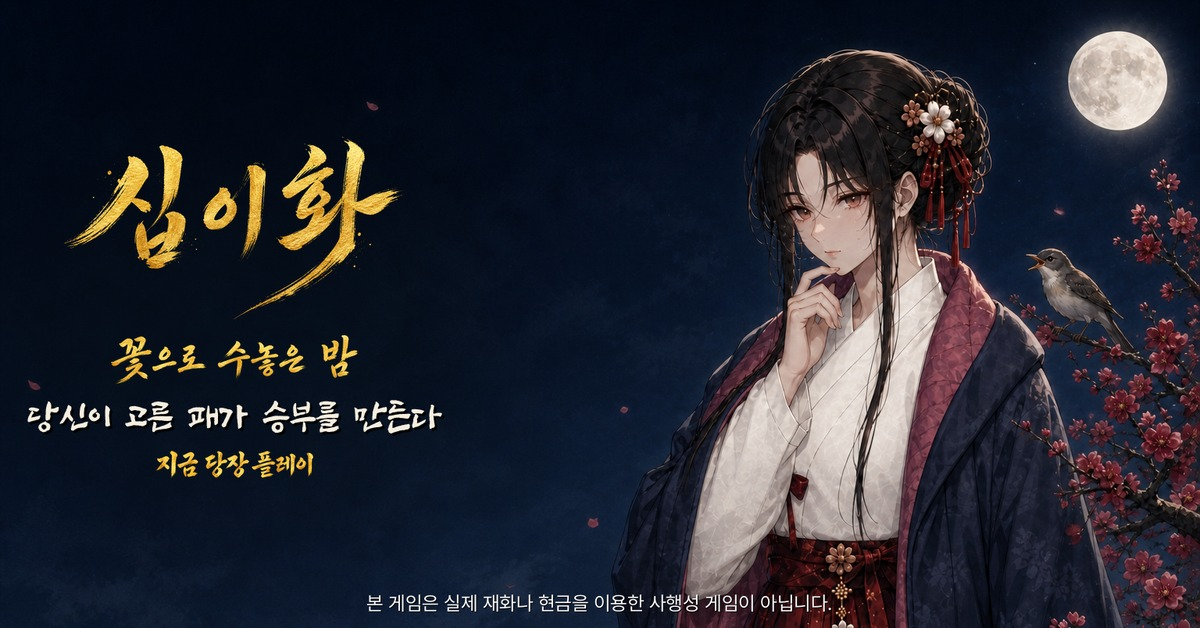
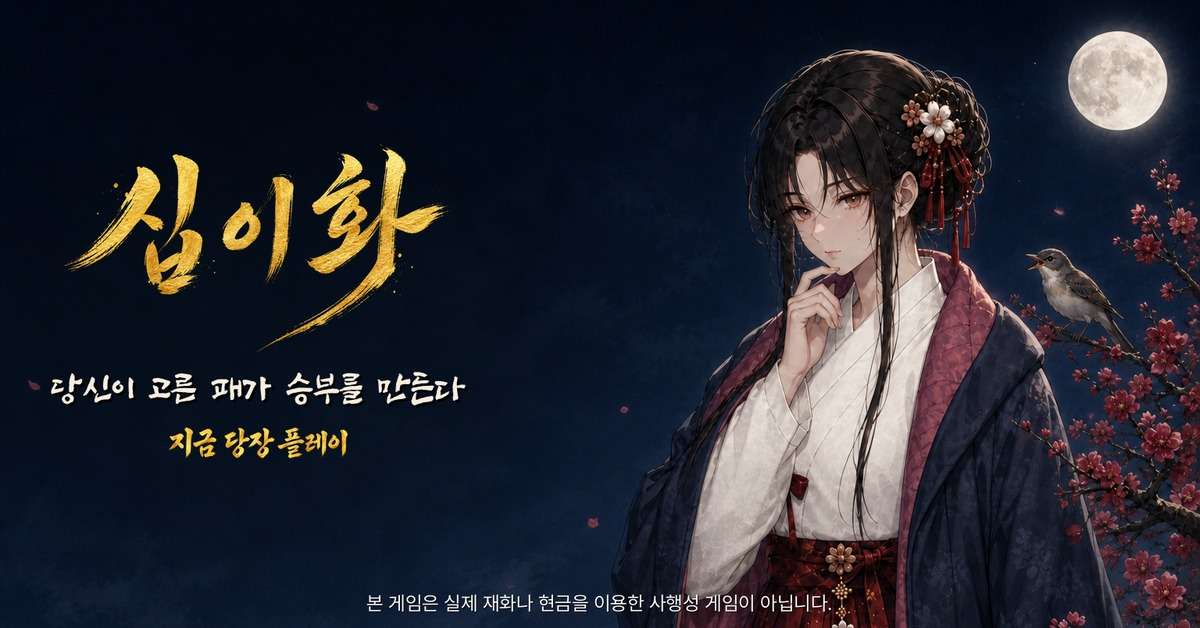
공통 태그라인을 빼고 타이포를 3단으로 되돌린다
「꽃으로 수놓은 밤」을 한 단 넣었더니 타이포 블록이 세로로 길어져 아트를
가렸다. 로고 / 월별 부제 / CTA 의 3단으로 복귀한다.

- lockup.py 에서 태그라인 레이어 제거, 단 간격을 3단 기준으로 재조정
- 블록이 짧아진 만큼 규격별 로고 폭을 키우고 시작 위치를 다시 잡았다
  (1:1 480 · 1.91:1 500 · 4:5 450)
- 태그라인 자산은 지우지 않고 gen/type/tagline/ 에 남긴다

Changed region(s): [[0.0, 0.2118, 0.4008, 0.7564], [0.185, 0.4841, 0.2158, 0.5143]]

diff --git a/design/15_google_campaign/src/lockup.py b/design/15_google_campaign/src/lockup.py
@@ -1,13 +1,13 @@
 #!/usr/bin/env python3
 """아트 플레이트 위에 「화투로」 로고 · 부제 · CTA · 사행성 고지를 조판한다.
 
-4단 구조로 쌓는다.
-  1) 로고    gen/logo/logo_og.png       금박 붓글씨 · 12장 공용
-  2) 태그라인 gen/type/tagline/type.png  「꽃으로 수놓은 밤」 붓글씨 · 12장 공용
-  3) 월별 부제 게임 폰트 SSRockRegular    광고에서 본 글씨 = 게임에서 볼 글씨
-  4) CTA     gen/type/tcta/type.png     금박 붓글씨 · 12장 공용
+3단 구조로 쌓는다.
+  1) 로고     gen/logo/logo_og.png    금박 붓글씨 · 12장 공용
+  2) 월별 부제 게임 폰트 SSRockRegular  광고에서 본 글씨 = 게임에서 볼 글씨
+  3) CTA      gen/type/tcta/type.png  금박 붓글씨 · 12장 공용
 
-태그라인을 폰트가 아니라 이미지로 쓰는 이유: 인게임 폰트에 '놓' 이 없다.
+공통 태그라인(「꽃으로 수놓은 밤」)을 한 단 넣어봤으나 블록이 세로로 길어져 뺐다.
+자산은 gen/type/tagline/ 에 남아 있다.
 
 ※ SSRock 은 게임에 나오는 글자만 담은 서브셋이다(한글 557자 / 완성형 11,172자 중).
   문구를 고치면 반드시 커버리지를 다시 확인할 것 — 없는 글자는 두부(⊠)로 찍힌다.
@@ -36,7 +36,6 @@ NOTICE_FONTS = [f"{H}/Pretendard-Regular.otf", f"{H}/Pretendard-Light.otf", f"{H
 NFONT = next((p for p in NOTICE_FONTS if os.path.exists(p)), None)
 GAME_FONT = os.path.join(G, ".work", "SSRock.ttf")   # 인게임 폰트
 
-TAG_W_RATIO = 0.72     # 태그라인 폭 = 로고 폭 × 이 값
 CTA_W_RATIO = 0.46     # CTA 폭 = 로고 폭 × 이 값
 
 def _has(ch):
@@ -85,7 +84,6 @@ _logo_path = LOGO_OVERRIDE or os.path.join(G, "logo", "logo_ink.png" if INK else
 logo = fit(piece(_logo_path), LOGO_W)
 cta  = fit(piece(os.path.join(G, "logo", "cta_verm.png") if INK else os.path.join(G, "type", "tcta", "type.png")),
            round(LOGO_W * CTA_W_RATIO))
-tag  = fit(piece(os.path.join(G, "type", "tagline", "type.png")), round(LOGO_W * TAG_W_RATIO))
 SUB_COL   = (32, 30, 28, 255) if INK else (245, 238, 224, 255)
 SHADOW    = None if INK else (0, 0, 0, 175)
 NOTICE_COL = (44, 40, 36, 175) if INK else (255, 255, 255, 115)
@@ -94,10 +92,9 @@ _m = ImageDraw.Draw(Image.new("RGB", (1, 1)))
 sbb = _m.textbbox((0, 0), SUB, font=gfont)
 sub_w, sub_h = sbb[2] - sbb[0], sbb[3] - sbb[1]
 
-gap1 = round(LOGO_W * 0.045)   # 로고 → 태그라인
-gap2 = round(LOGO_W * 0.045)   # 태그라인 → 월별 부제
-gap3 = round(LOGO_W * 0.050)   # 월별 부제 → CTA
-block_h = logo.height + gap1 + tag.height + gap2 + sub_h + gap3 + cta.height
+gap1 = round(LOGO_W * 0.050)   # 로고 → 월별 부제
+gap2 = round(LOGO_W * 0.055)   # 월별 부제 → CTA
+block_h = logo.height + gap1 + sub_h + gap2 + cta.height
 cx = LX + LOGO_W // 2                        # 정렬 기준 = 로고 가로 중앙
 
 # 타이포가 앉을 자리를 살짝 눌러 가독성 확보 (아트를 덮지 않는 수준)
@@ -110,13 +107,12 @@ if not INK:
 
 y = LY
 art.alpha_composite(logo, (LX, y));                       y += logo.height + gap1
-art.alpha_composite(tag, (cx - tag.width // 2, y));       y += tag.height + gap2
 dsub = ImageDraw.Draw(art)
 sx = cx - sub_w // 2 - sbb[0]
 layers = ([(0, 0, SUB_COL)] if SHADOW is None else [(3, 3, SHADOW), (0, 0, SUB_COL)])
 for dx, dy, col in layers:
     dsub.text((sx + dx, y - sbb[1] + dy), SUB, font=gfont, fill=col)
-y += sub_h + gap3
+y += sub_h + gap2
 art.alpha_composite(cta,  (cx - cta.width // 2, y))
 
 # ── 사행성 고지 — 하단 중앙, 눈에 띄지 않되 판독 가능하게 ──────
@@ -133,4 +129,4 @@ art.convert("RGB").resize((SPEC_W, SPEC_H), Image.LANCZOS).save(OUT, quality=92)
 miss = [c for c in SUB if c != " " and not _has(c)]
 if miss:
     print(f"!! 인게임 폰트에 없는 글자: {''.join(miss)}  ({SUB})", file=sys.stderr)
-print(f"{OUT}  {SPEC_W}x{SPEC_H}  로고 {logo.size} 태그 {tag.size} 부제 {sub_w}x{sub_h} CTA {cta.size}  블록 {block_h}")
+print(f"{OUT}  {SPEC_W}x{SPEC_H}  로고 {logo.size} 부제 {sub_w}x{sub_h} CTA {cta.size}  블록 {block_h}")

diff --git a/design/15_google_campaign/README-FOLDER.md b/design/15_google_campaign/README-FOLDER.md
@@ -68,6 +68,6 @@ node src/charcount.mjs       # 문구 자수 검증
 
 ## 주의
 
-- **소재의 타이포는 4단이다** — 로고 「십이화」 / 태그라인 「꽃으로 수놓은 밤」 / 월별 부제 / CTA. 앞의 셋 중 로고·태그라인·CTA는 붓글씨 이미지(12장 공용), 월별 부제만 인게임 폰트다.
+- **소재의 타이포는 3단이다** — 로고 「십이화」 / 월별 부제 / CTA. 로고와 CTA는 붓글씨 이미지(12장 공용), 월별 부제만 인게임 폰트다. 공통 태그라인(「꽃으로 수놓은 밤」)을 넣어봤으나 블록이 세로로 길어져 뺐다 — 자산은 `gen/type/tagline/` 에 남아 있다.
 - **인게임 폰트 `SSRockRegular` 는 서브셋이다** (한글 557자 / 완성형 11,172자). 부제 문구를 고치면 `src/lockup.py` 가 누락 글자를 stderr 로 경고한다. 무시하면 두부(⊠)가 그대로 나간다.
 - 소재의 사행성 고지 문구는 들어갔지만 **랜딩페이지 고지는 아직 미적용**이다 ([README §6](README.md) 항목 5).
